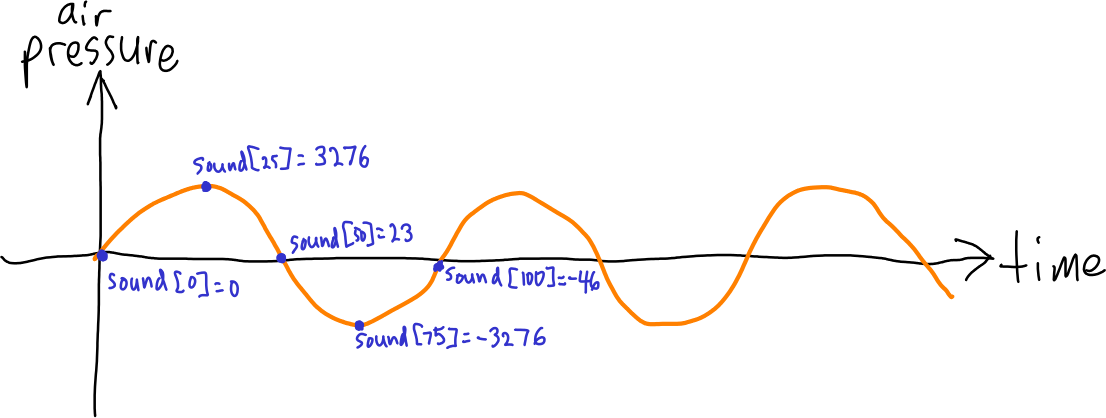
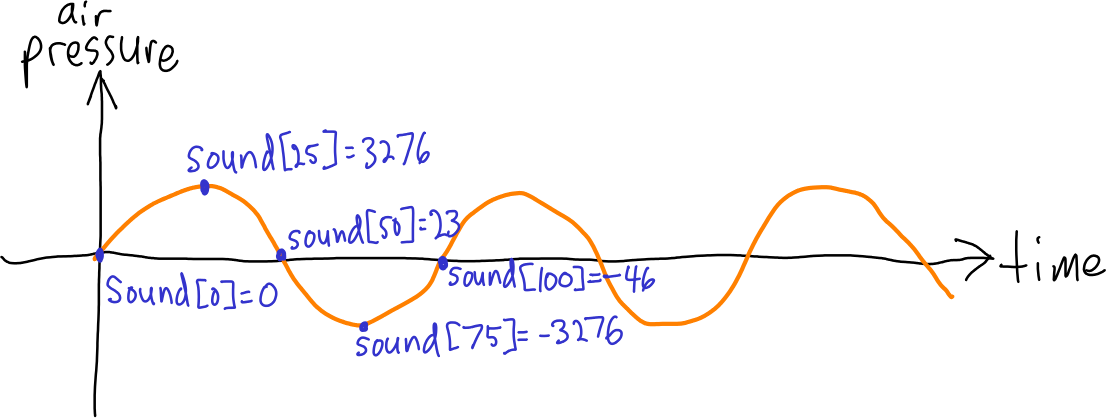
better diagram showing PCM sample values

diff --git a/midterm_proj.md b/midterm_proj.md
@@ -49,7 +49,9 @@ There are a variety of ways to represent sound using a computer.  The most strai
 
 To make this idea explicit, let's say that the sound we want to represent is a sine wave with an aplitude of 0.1 and a frequency of 440 Hz.  We'll consider amplitude as being relative to the loudest possible sound, defined as 1.0, so a signal with an amplitude of 0.1 has positive and negative peaks that are 10% as large as the loudest possible signal.  With a sampling frequency of 44.1 KHz, each cycle of our 440 Hz audio signal will be represented by about 100 samples (really 100.2<span style="text-decoration: overline;">27</span>).  The values of the individual samples will vary between (appoximately) -3,276 and 3,276.  Let's say the audio data is in an array of `int16_t` elements called `sound`.  Here is a diagram showing points on the signal, their values, and which array elements they would be stored in:
 
-> Yeah!
+> <a href="img/sound-sinewave-samples.png"><img alt="Sine wave" src="img/sound-sinewave-samples.png" style="width: 40em;"></a>
+
+As long as the number of bits per sample is reasonably large, and the sampling frequency is reasonably high, a PCM can represent audio with high fidelity to the original sound.
 
 ## Detailed requirements
 
